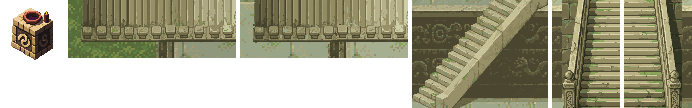
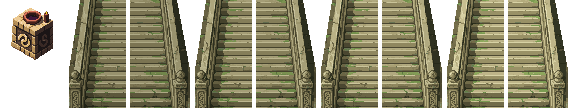
Temple pyramid: one north-south stair on every tier, cut to meet the tiles
The slanted and west-face flights are gone. The central stair is cut out
along its balustrades and shaded per tier; face quarters take the lower
terrace's shade (they showed a light strip under each face).

Claude-Session: https://claude.ai/code/session_0141D3J1nxiiYur4nPnE9YEF

diff --git a/assets/wip/temple-pyramid/pack.py b/assets/wip/temple-pyramid/pack.py
@@ -1,47 +1,53 @@
-# Cuts the inpainted stairs out of their renders and packs them, with the altar, into
-# art/worldtiles/temple/pyramid-props.png. Prints each piece's rect and its offset from its square's top-left (the
-# numbers for data/tilesets.yaml). Each piece's stair square sits at the given pixels in its render.
-# The tiers' shading (build.py) may have changed since a piece was painted: each piece is corrected by the ratio of a
-# fresh render of its spot to the render it was painted into (ctx-<k>.png), so it still meets the tiles around it.
+# Cuts the pyramid's stair (one design, used on every tier: the user, "a single, well-matched set of north-south
+# stairs") out of the render it was inpainted into, and packs a copy per tier, in two halves (one per square), with the
+# altar into art/worldtiles/temple/pyramid-props.png. Prints each piece's rect and its offset from its square's
+# top-left (the numbers for data/tilesets.yaml).
 #   python3 assets/wip/temple-pyramid/pack.py "$PWD"
-import subprocess, sys, tempfile
+import sys
 from PIL import Image
 
 root = sys.argv[1]
 here = root + '/assets/wip/temple-pyramid/'
-# The renders: squares x0 y0 x1 y1 of temple_court2.
-CTX = {'a': (3, 6, 6, 9), 'b': (25, 27, 28, 30), 'c': (9, 12, 12, 15), 'd': (17, 21, 20, 24)}
-# name: (render, mask rect x, y, w, h, the stair square's top-left in the render)
-PIECES = {
-    'pyr_steps_w1': ('a', (28, 130, 168, 58), (128, 128)),
-    'pyr_steps_w3': ('c', (28, 130, 168, 58), (128, 128)),
-    'pyr_steps_s': ('b', (60, 112, 136, 108), (128, 128)),
-    'pyr_stair_l': ('d', (60, 112, 68, 108), (64, 128)),
-    'pyr_stair_r': ('d', (128, 112, 68, 108), (128, 128)),
-}
-now, tmp = {}, tempfile.mkdtemp()
-for k, (x0, y0, x1, y1) in CTX.items():
-    f = '%s/now-%s.png' % (tmp, k)
-    subprocess.run(['python3', root + '/assets/wip/temple-doors/render.py', root, 'temple_court2', str(x0), str(y0), str(x1), str(y1), f], check=True, capture_output=True)
-    now[k] = Image.open(f).convert('RGBA')
+# The render the stair was painted into (ctx-d.png, squares 17 21 20 24 of temple_court2): its two squares sit at
+# x 64 and 128, y 128, and the flight stands in the rectangle below.
+BOX = (70, 112, 188, 220)
+# Only the flight and its balustrades are kept; the rest is transparent so the tier's own face and terraces show
+# around it. Its outline, (y, left, right) in the render, straight between these rows: narrower at the top, out to the
+# newel posts at the foot.
+OUTLINE = [(112, 82, 174), (181, 71, 187), (220, 71, 187)]
+# It was painted onto the top tier (shade 1.05 then, build.py): each tier's copy is shaded for its own terraces.
+SHADE = [0.86, 0.93, 1.0, 1.07]
+PAINTED = 1.05
+
+def edge(y):
+    for (y0, l0, r0), (y1, l1, r1) in zip(OUTLINE, OUTLINE[1:]):
+        if y0 <= y <= y1:
+            t = (y - y0) / (y1 - y0)
+            return l0 + (l1 - l0) * t, r0 + (r1 - r0) * t
+    return 0, -1
 
 
-def corrected(k, box):
-    piece = Image.open(here + 'out-%s.png' % k).convert('RGBA').crop(box)
-    old, new = Image.open(here + 'ctx-%s.png' % k).convert('RGBA').crop(box).load(), now[k].crop(box).load()
+def stair(f):
+    piece = Image.open(here + 'out-d.png').convert('RGBA').crop(BOX)
     px = piece.load()
     for y in range(piece.height):
+        l, r = edge(BOX[1] + y)
         for x in range(piece.width):
-            r, g, b, a = px[x, y]
-            o, n = old[x, y], new[x, y]
-            f = [n[i] / o[i] if o[i] else 1 for i in range(3)]
-            px[x, y] = (min(255, round(r * f[0])), min(255, round(g * f[1])), min(255, round(b * f[2])), a)
+            X = BOX[0] + x
+            if X < round(l) or X > round(r):
+                px[x, y] = (0, 0, 0, 0)
+                continue
+            c = px[x, y]
+            px[x, y] = (min(255, round(c[0] * f)), min(255, round(c[1] * f)), min(255, round(c[2] * f)), c[3])
     return piece
 
 
 cuts = [('altar', Image.open(here + 'altar.png').convert('RGBA'), None)]
-for name, (k, (x, y, w, h), (sx, sy)) in PIECES.items():
-    cuts.append((name, corrected(k, (x, y, x + w, y + h)), (x - sx, y - sy)))
+mid = 128 - BOX[0]
+for k in range(1, 5):
+    st = stair(SHADE[k - 1] / PAINTED)
+    cuts.append(('pyr_stair_l%d' % k, st.crop((0, 0, mid, st.height)), (BOX[0] - 64, BOX[1] - 128)))
+    cuts.append(('pyr_stair_r%d' % k, st.crop((mid, 0, st.width, st.height)), (0, BOX[1] - 128)))
 W = sum(c.width for _, c, _ in cuts) + 4 * (len(cuts) - 1)
 sheet = Image.new('RGBA', (W, max(c.height for _, c, _ in cuts)), (0, 0, 0, 0))
 x = 0

diff --git a/assets/wip/temple-pyramid/build.py b/assets/wip/temple-pyramid/build.py
@@ -64,8 +64,9 @@ def shade(im, pats, lower, upper):
     px = im.load()
     for (cx, cy), pat in pats.items():
         for q, kind in enumerate(kinds(pat)):
-            f = upper if kind == 'upper' else lower if kind == 'lower' else None
-            if f is None or f == 1:
+            # A face quarter takes the lower terrace's shade: the face doesn't fill it, and terrace shows below it.
+            f = upper if kind == 'upper' else lower
+            if f == 1:
                 continue
             x0, y0 = cx * 64 + (q % 2) * 32, cy * 64 + (q // 2) * 32
             for y in range(y0, y0 + 32):

diff --git a/assets/wip/temple-pyramid/README.md b/assets/wip/temple-pyramid/README.md
@@ -27,27 +27,22 @@ the same tile positions and patterns as the court wall's).
   so the first tier's face matches the others.
 - build.py makes art/worldtiles/temple/pyramid-tier1..4.png: fills the cream, shades each tier's terrace a step lighter
   than the one below (0.86, 0.93, 1.0, 1.07) so the height reads from above, and casts a soft shadow on the terrace
-  east of each tier (light from the upper left). Seen from above the north and side edges of a tier are only a rim; the
+  east of each tier (light from the upper left). A face's quarter tiles take the lower terrace's shade (the face doesn't
+  fill them; left unshaded they showed as a light strip under each face). Seen from above the north and side edges of a tier are only a rim; the
   shading is what tells the levels apart there.
-- Stairs, inpainted (`inpaint_image`) into renders of their spots (`ctx-<k>.png`, 4x4 squares, from
-  `assets/wip/temple-doors/render.py`), like the doors:
-  - b, the second tier, east end of the south face (mask 60,112 136x108): "a narrow flight of worn pale stone steps
-    built against the carved stone face, climbing diagonally from the paving at the lower left up to the top ledge at
-    the upper right, the steps seen from above and in front, a low plain side wall on the open side, the carved face
-    behind it". The reference's stair; one try.
-  - d, the top stair, middle of the south face, two squares (mask 60,112 136x108): "a broad straight stone staircase
-    climbing straight up the carved face from the paving at the bottom onto the terrace at the top, many worn pale
-    olive-tan steps running left to right, seen from above and in front, a low carved stone balustrade on each side".
-    Cut in two halves, one per square.
-  - a, the first tier, west face (mask 28,130 168x58): "seen from above: a long narrow flight of worn pale olive-tan
-    stone steps built out from the side of the pyramid tier, climbing from the grass on the left up onto the flat paved
-    top on the right, many thin steps ...". A first try with a smaller mask (out-a-box.png) came out as a box.
-  - c, the third tier, west face: the same prompt (terrace for grass) came out as a box, then as a thin wedge
-    (out-c-box.png, out-c-wedge.png); a's flight is used, its grass keyed out to the terrace (out-c.png).
-  The west-face flights are weak: on a side face there is no face to climb, and they read a little like a fence.
+- The stair. The user, after the first pass: "The stairs do not seamlessly mesh with the surrounding tiles. The slant
+  stairs should also go—let's just have a single, well-matched set of north-south stairs and use those at all levels."
+  So one design, two squares wide, on the south face of every tier (west end, east end, west end, the middle): the
+  central stair, inpainted (`inpaint_image`) into a render of the top tier's face (`ctx-d.png`, 4x4 squares from
+  `assets/wip/temple-doors/render.py`, mask 60,112 136x108): "a broad straight stone staircase climbing straight up the
+  carved face from the paving at the bottom onto the terrace at the top, many worn pale olive-tan steps running left to
+  right, seen from above and in front, a low carved stone balustrade on each side" (out-d.png). pack.py keeps only the
+  flight and its balustrades (an outline traced by hand, wider at the newel posts), so the tier's own face, ledge and
+  terraces show round it: the first cut kept the whole rectangle, with plain block walls PixelLab drew beside the
+  balustrades and its own repainted ledge, and showed as a patch. A copy is shaded for each tier.
+  Superseded tries, kept for reference: the flight along the face (out-b.png, the reference's stair) and the west-face
+  flights (out-a*.png, out-c*.png).
 - altar.png (map object 5e303fd1, basic shading, selective outline): "a small ancient stone altar block of weathered
   olive-tan stone, carved with a coiled serpent on its front, a shallow dark-stained basin on top, a couple of melted
   candle stubs". Came out terracotta-red; kept.
-- pack.py cuts the stairs, corrects them for any later shading (the ratio of a fresh render to the one they were
-  painted into) and packs them with the altar into art/worldtiles/temple/pyramid-props.png. The ledge just above the
-  face stair (b) is a shade off where the inpaint repainted it.
+- pack.py packs the stair copies (in halves, one per square) and the altar into art/worldtiles/temple/pyramid-props.png.

diff --git a/HANDOFF.md b/HANDOFF.md
@@ -100,20 +100,20 @@ idle, walk, attack, hurt, death. PixelLab gives 8 directions; the map mirrors 2,
   or bigger groups once the lizardfolk variants exist.
 - [x] Courtyard 2 and the pyramid (`temple_court2`, through the labyrinth's east door; 2026-10-24,
   `assets/wip/temple-pyramid/README.md`), after the user's reference (`assets/ideas/refs/pyramid-court-reference.jpg`:
-  tall tiers carved in bands of relief, a flight up along a face). A 3-square rind of grass round a 28-square pyramid
-  of four tiers, the stairs winding round as the plan has them (NW, SE along the face, NW, the middle of the south
-  face), the altar and a well (a prop until the sewers exist) on top. Engine: ground letters `-` `:` `*` `&` for the
-  terraces and `^` (now `rise`) for the risers, drawn as the tier they hold up; tileset terrains may copy another's
-  fields (`like`); flat ground draws nothing under raised terrain. Each tier is a PixelLab cliff set over the one below
-  (carved face, slab terrace), shaded a step lighter going up, with a cast shadow east of each tier. Encounters: door
-  pair, patrol, a skeleton, a terrace guard, the constrictor, the drake on top. Seen in headless Chrome.
+  tall tiers carved in bands of relief). A 3-square rind of grass round a 28-square pyramid of four tiers; one stair
+  design on the south face of every tier, zigzagging west end, east end, west end, middle (the user: "a single,
+  well-matched set of north-south stairs ... at all levels"; the slanted flight and the west-face flights are gone),
+  cut out along its balustrades so it meets the tier's own tiles; the altar and a well (a prop until the sewers exist)
+  on top. Engine: ground letters `-` `:` `*` `&` for the terraces and `^` (now `rise`) for the risers, drawn as the
+  tier they hold up; tileset terrains may copy another's fields (`like`); flat ground draws nothing under raised
+  terrain. Each tier is a PixelLab cliff set over the one below (carved face, slab terrace), shaded a step lighter
+  going up, with a cast shadow east of each tier. Monster placement and tuning: not wanted for now (the user). Seen in
+  headless Chrome.
 - [ ] Pyramid, still open:
-  - the north and side edges of a tier read only as a rim with a shade change (top-down shows no face there); the
-    west-face stairs (tiers 1 and 3) are short and look a little like a fence;
-  - the ledge above the face stair is a shade off where the inpaint repainted it; the altar came out terracotta;
-  - every tier face is the same frieze; risers stop sight, so groups on different terraces never join a fight or
-    shoot down (plan §3, option B, if that matters);
-  - the stair pictures fit their own spots (moving a stair means a new render and inpaint).
+  - the north and side edges of a tier read only as a rim with a shade change (top-down shows no face there);
+  - the altar came out terracotta; every tier face is the same frieze;
+  - risers stop sight, so groups on different terraces never join a fight or shoot down (plan §3, option B);
+  - the drake on top wins 73% against a level-1 party (left as is; placement and tuning wait).
 - [ ] Style target: the PixelLab dragonborn (64 px). Tiles at 64 px to match (plan §4). The user (2026-10-24) gave a
   red dragonborn knight as the NPC style (`assets/ideas/refs/npc-style-dragonborn-knight.jpg`: dark outline, black
   plate, shield with a dragon's head); creatures and NPCs wait until the dungeon's layout is settled.

diff --git a/assets/ideas/temple-dungeon.md b/assets/ideas/temple-dungeon.md
@@ -55,6 +55,8 @@ From the user's voice memos of 2026-10-24, quoted where the wording matters. Sta
   labyrinth on the south end of this courtyard". Route up: tier 1 stairs in the north-west corner, tier 2 in the
   south-east, tier 3 in the north-west, tier 4 "centrally located on the south face", and "at the top of it is a very
   small altar. With another well going down."
+  Built (2026-10-24) with every stair on a south face instead (the user: "a single, well-matched set of north-south
+  stairs and use those at all levels"): west end, east end, west end, middle.
 - *Palace, ground floor.* Entered "from the first courtyard through an arched and decorated doorway", past statues into
   a long chamber; "a great hall with a throne room", "several side chambers", stairs up to a second floor. "In a niche
   on the first floor off the great hall" a stairwell down (to the ritual chamber, §0).
